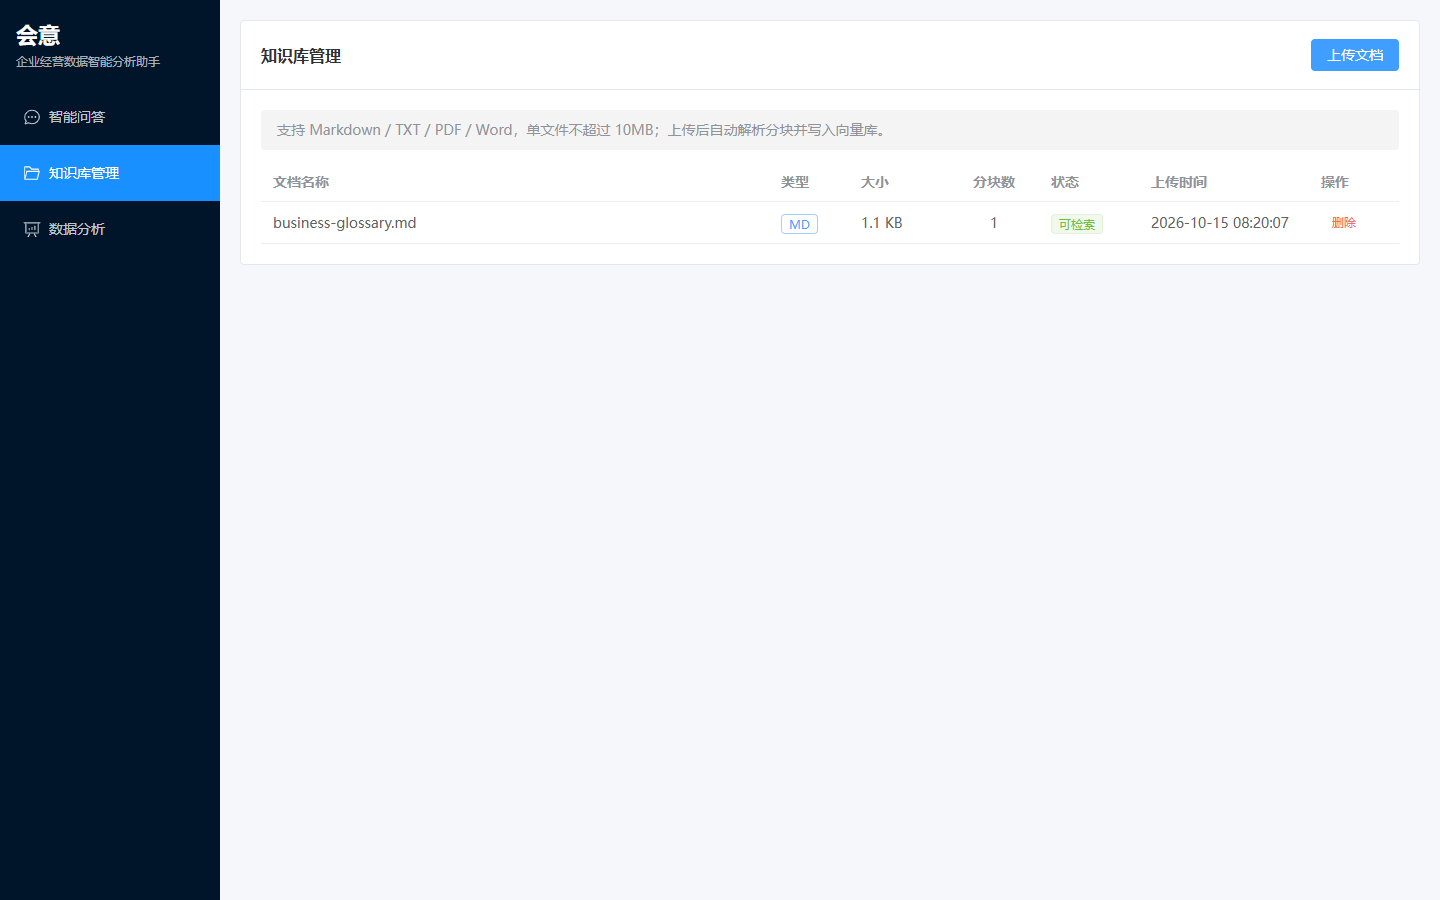
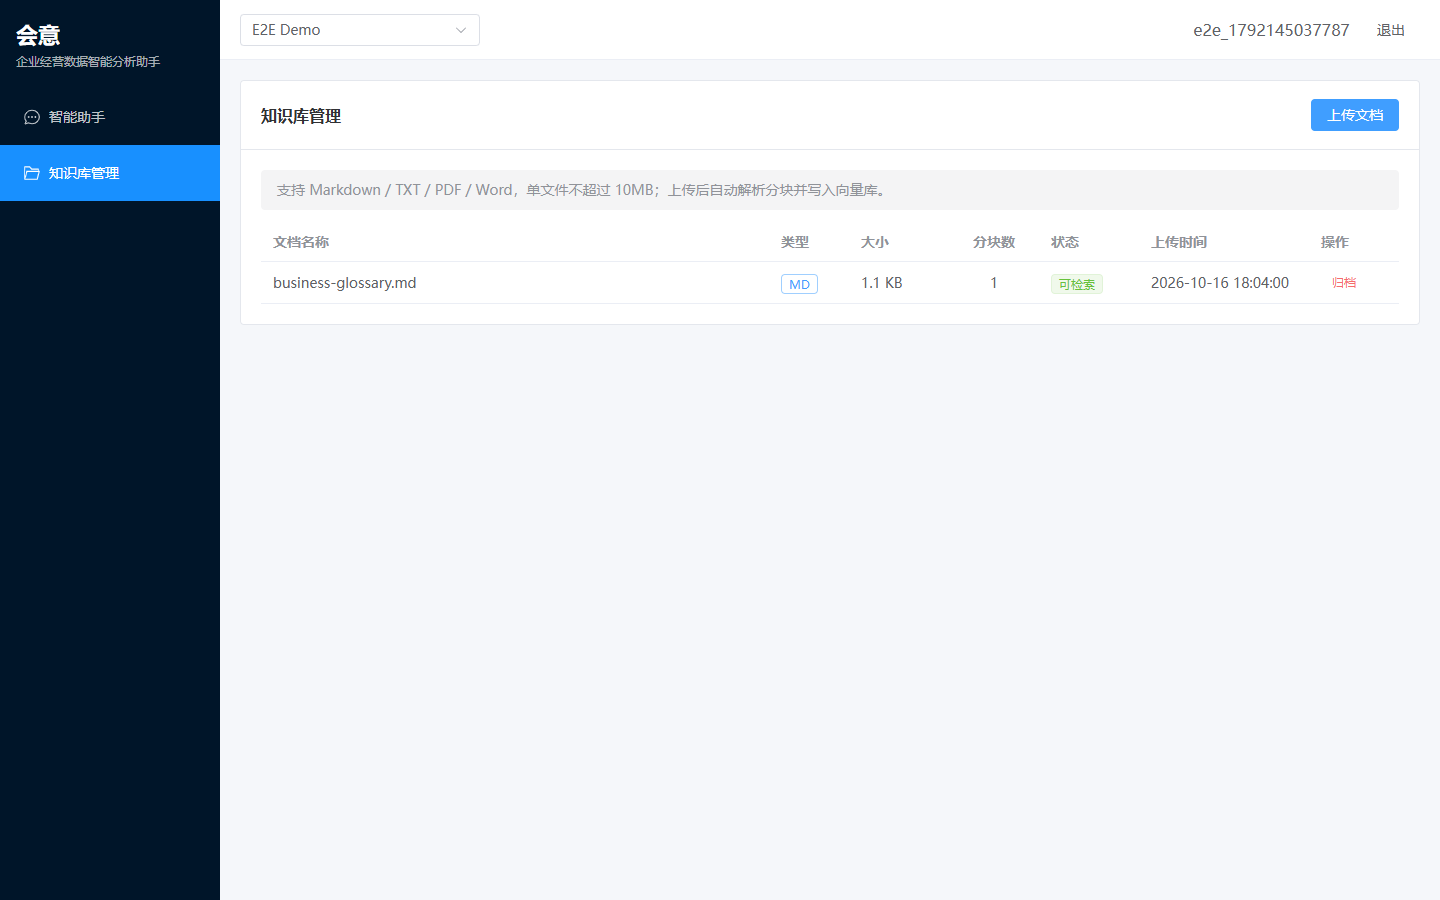
fix: allow SSE completion under JWT and baseline Flyway on existing MySQL

diff --git a/scripts/e2e-m5.js b/scripts/e2e-m5.js
@@ -1,11 +1,46 @@
 // M5 五场景端到端浏览器验证（先注册登录，再走 v1 工作区对话）
 // 用法：npm i playwright-core && node scripts/e2e-m5.js（需全栈已启动：docker compose up -d）
 const { chromium } = require('playwright-core');
+const fs = require('fs');
 const path = require('path');
 const { registerAndEnter } = require('./e2e-login');
 
 const BASE = process.env.E2E_BASE_URL || 'http://localhost:5173';
+const API = process.env.E2E_API_URL || 'http://localhost:8080';
 const SHOTS = path.resolve(__dirname, '..', 'docs', 'images');
+const GLOSSARY = path.resolve(__dirname, '..', 'sample-data', 'knowledge', 'business-glossary.md');
+
+async function bootstrapOwnerWorkspace(page) {
+  const refreshToken = await page.evaluate(() => localStorage.getItem('huiyi_refresh'));
+  const refreshed = await fetch(API + '/api/v1/auth/refresh', {
+    method: 'POST',
+    headers: { 'Content-Type': 'application/json' },
+    body: JSON.stringify({ refreshToken }),
+  }).then((res) => res.json());
+  const token = refreshed.data.accessToken;
+  const created = await fetch(API + '/api/v1/workspaces', {
+    method: 'POST',
+    headers: { 'Content-Type': 'application/json', Authorization: 'Bearer ' + token },
+    body: JSON.stringify({ name: 'E2E Demo', code: 'e2e-demo-' + Date.now() }),
+  }).then((res) => res.json());
+  const workspaceId = created.data.id;
+  const form = new FormData();
+  form.append('file', new Blob([fs.readFileSync(GLOSSARY)]), 'business-glossary.md');
+  const uploaded = await fetch(API + `/api/v1/workspaces/${workspaceId}/knowledge/upload`, {
+    method: 'POST',
+    headers: { Authorization: 'Bearer ' + token },
+    body: form,
+  }).then((res) => res.json());
+  if (uploaded.code !== 0) {
+    throw new Error('upload failed: ' + JSON.stringify(uploaded));
+  }
+  await page.evaluate(({ workspaceId, refresh }) => {
+    localStorage.setItem('huiyi_workspace_id', String(workspaceId));
+    localStorage.setItem('huiyi_refresh', refresh);
+  }, { workspaceId, refresh: refreshed.data.refreshToken });
+  await page.goto(BASE + '/chat', { waitUntil: 'networkidle' });
+  await page.locator('textarea').waitFor({ timeout: 30000 });
+}
 
 (async () => {
   const browser = await chromium.launch({ channel: 'msedge', headless: true });
@@ -18,6 +53,7 @@ const SHOTS = path.resolve(__dirname, '..', 'docs', 'images');
   };
 
   await registerAndEnter(page, BASE);
+  await bootstrapOwnerWorkspace(page);
 
   // ===== 场景 1：口径问答（RAG + 引用来源） =====
   await ask('什么是有效订单？');

diff --git a/backend/src/test/java/com/huiyi/assistant/security/SecurityConfigTest.java b/backend/src/test/java/com/huiyi/assistant/security/SecurityConfigTest.java
@@ -1,0 +1,27 @@
+package com.huiyi.assistant.security;
+
+import org.junit.jupiter.api.Test;
+
+import java.nio.charset.StandardCharsets;
+import java.nio.file.Files;
+import java.nio.file.Path;
+
+import static org.junit.jupiter.api.Assertions.assertTrue;
+
+/**
+ * SSE complete() 会触发 ASYNC/ERROR dispatcher。STATELESS 下 JWT 过滤器不在异步派发上重跑，
+ * 必须放行这两种 dispatcher，否则引用已到达但流无法正常结束。
+ */
+class SecurityConfigTest {
+
+    @Test
+    void permitsAsyncAndErrorDispatchersForSseCompletion() throws Exception {
+        String source = Files.readString(
+                Path.of("src/main/java/com/huiyi/assistant/security/SecurityConfig.java"),
+                StandardCharsets.UTF_8);
+        assertTrue(source.contains("dispatcherTypeMatchers(DispatcherType.ASYNC"),
+                "ASYNC dispatcher must be permitAll so SseEmitter.complete() is not Access Denied");
+        assertTrue(source.contains("DispatcherType.ERROR"),
+                "ERROR dispatcher must be permitAll so committed SSE responses do not cascade");
+    }
+}

diff --git a/backend/src/main/java/com/huiyi/assistant/security/SecurityConfig.java b/backend/src/main/java/com/huiyi/assistant/security/SecurityConfig.java
@@ -2,6 +2,7 @@ package com.huiyi.assistant.security;
 
 import com.fasterxml.jackson.databind.ObjectMapper;
 import com.huiyi.assistant.common.result.Result;
+import jakarta.servlet.DispatcherType;
 import jakarta.servlet.http.HttpServletResponse;
 import org.springframework.context.annotation.Bean;
 import org.springframework.context.annotation.Configuration;
@@ -31,6 +32,7 @@ public class SecurityConfig {
         http.csrf(csrf -> csrf.disable())
                 .sessionManagement(session -> session.sessionCreationPolicy(SessionCreationPolicy.STATELESS))
                 .authorizeHttpRequests(auth -> auth
+                        .dispatcherTypeMatchers(DispatcherType.ASYNC, DispatcherType.ERROR).permitAll()
                         .requestMatchers("/api/health", "/api/v1/auth/register", "/api/v1/auth/login",
                                 "/api/v1/auth/refresh", "/api/v1/auth/logout").permitAll()
                         .anyRequest().authenticated())

diff --git a/backend/src/test/java/com/huiyi/assistant/config/FlywayMigrationFilesTest.java b/backend/src/test/java/com/huiyi/assistant/config/FlywayMigrationFilesTest.java
@@ -35,6 +35,17 @@ class FlywayMigrationFilesTest {
     }
 
     @Test
+    void flywayBaselinesExistingNonEmptySchema() throws IOException {
+        for (String file : List.of(
+                "src/main/resources/application-local.yml",
+                "src/main/resources/application-docker.yml")) {
+            String yaml = Files.readString(Path.of(file), StandardCharsets.UTF_8);
+            assertTrue(yaml.contains("baseline-on-migrate: true"), file + " must baseline existing demo schema");
+            assertTrue(yaml.contains("baseline-version: 0"), file + " must still run V1 on demo schema");
+        }
+    }
+
+    @Test
     void initMysqlNoLongerCreatesApplicationTables() throws IOException {
         String init = Files.readString(Path.of("../scripts/init_mysql.sql"), StandardCharsets.UTF_8);
         assertFalse(init.contains("CREATE TABLE IF NOT EXISTS knowledge_docs"),
